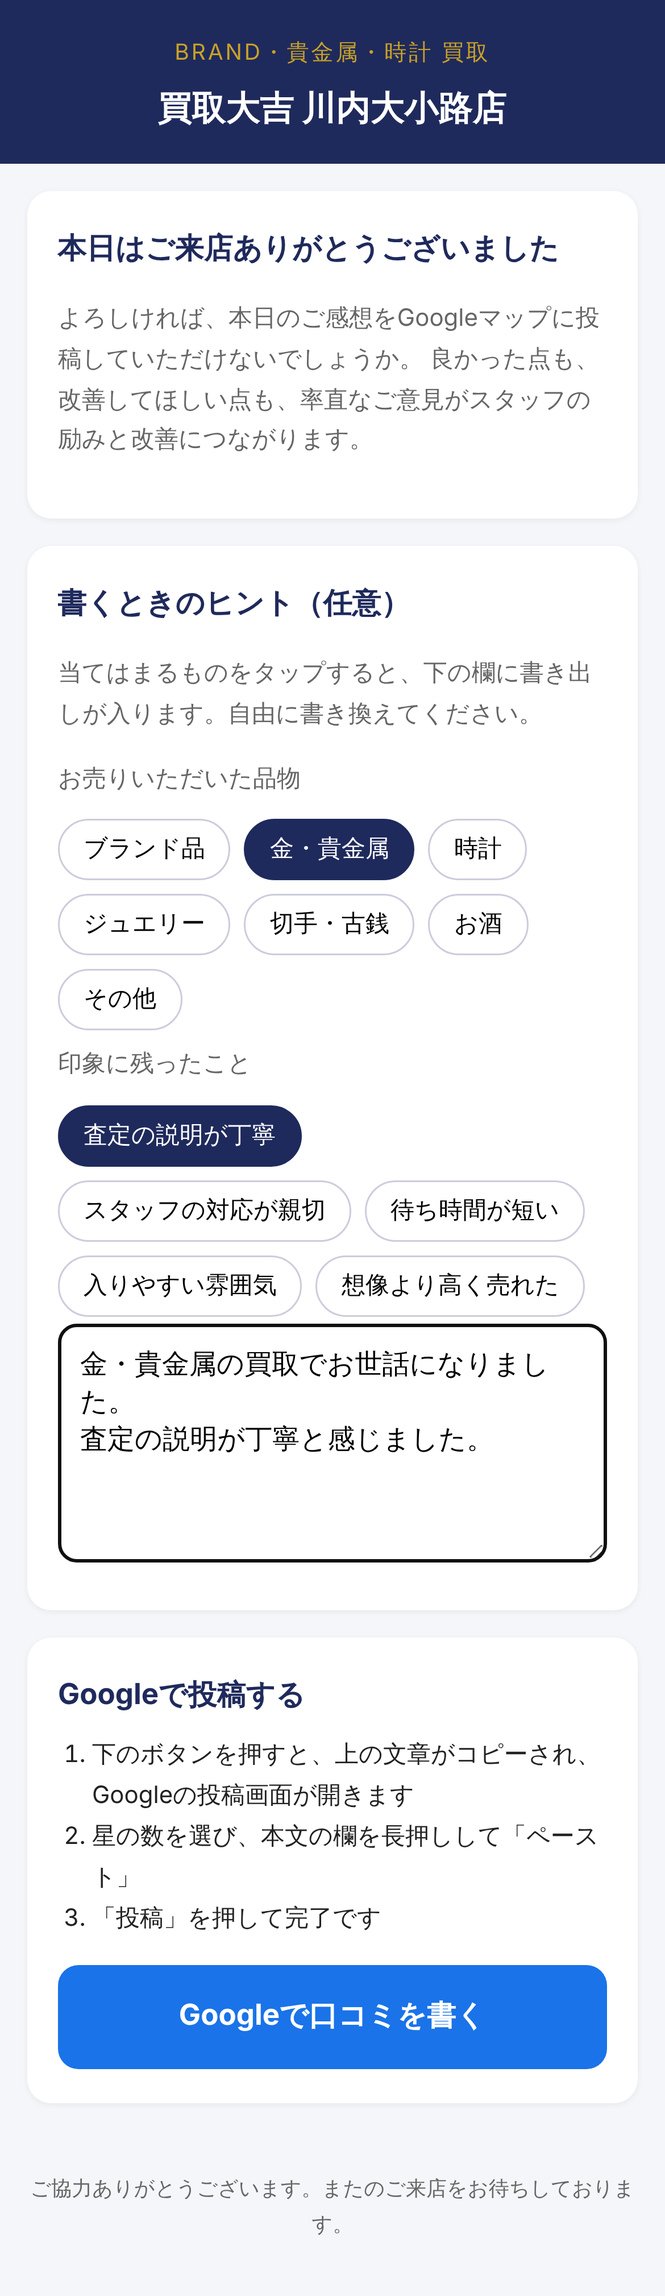
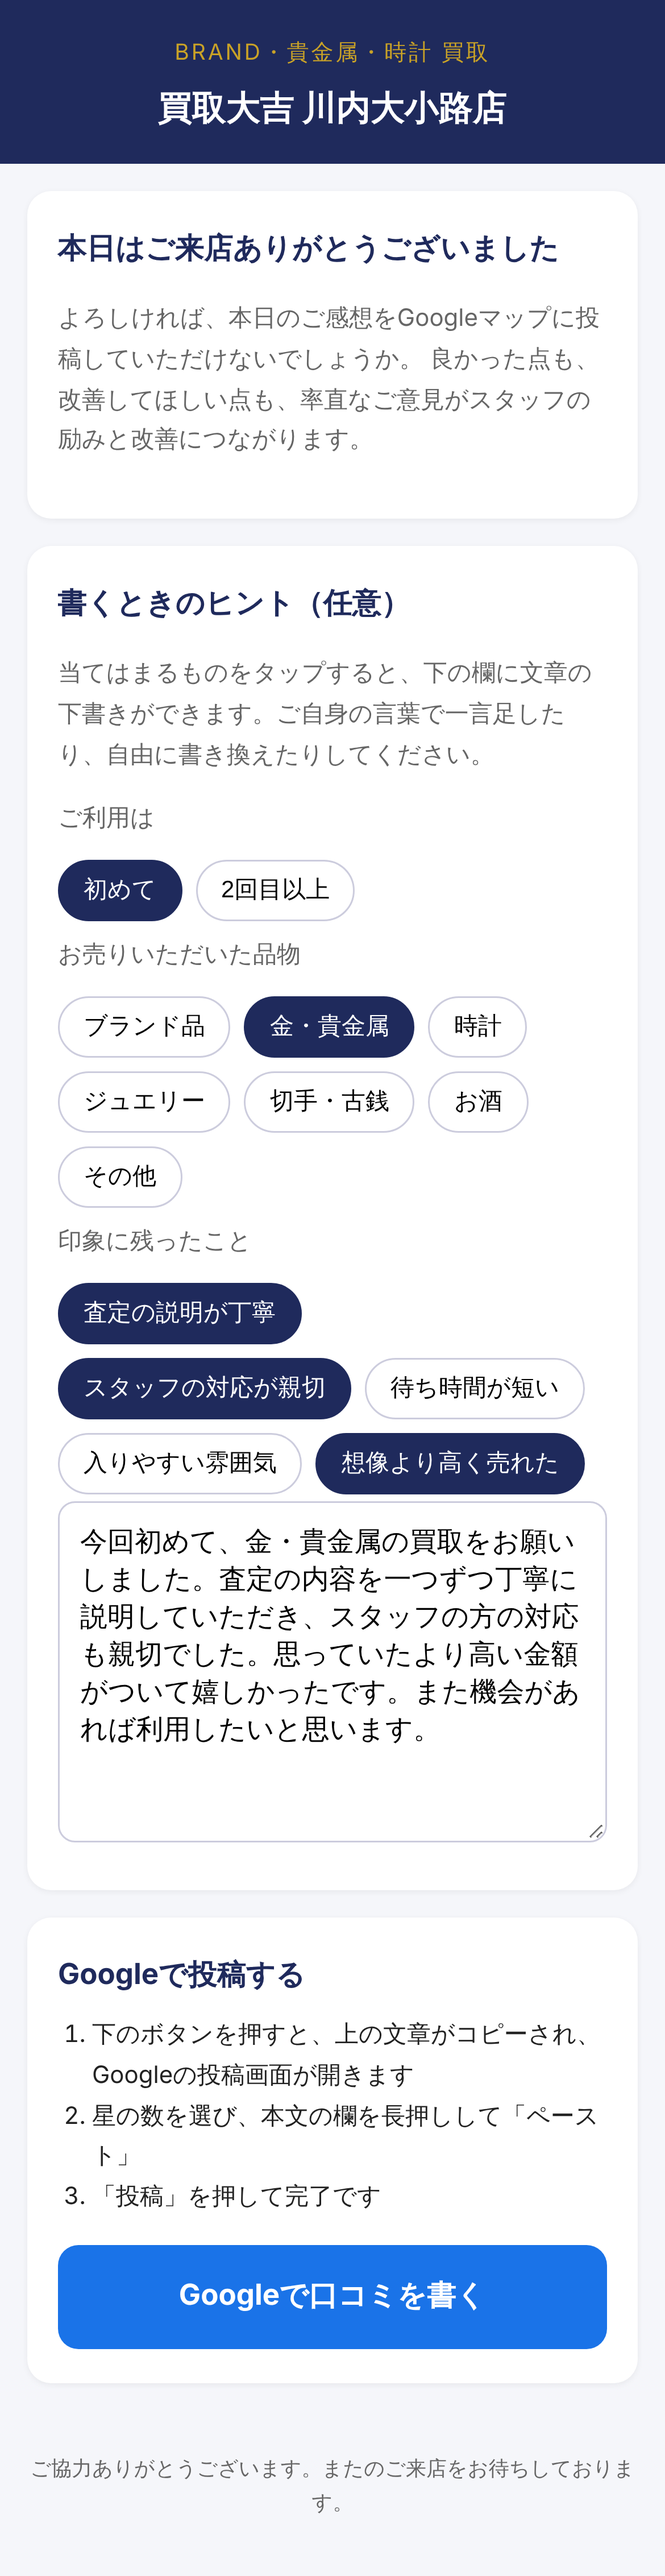
ヒントから自然な一続きの文章を組み立てるように変更
- 「ご利用は（初めて／2回目以上）」の選択肢を追加
- 選んだ内容を、箇条書きではなくつながった文章にする
- 言い回しをページを開くたびに変え、全員が同じ文章になるのを防ぐ
- お客様が手で直した文章は、確認なしに上書きしない

Claude-Session: https://claude.ai/code/session_019pqPey41PXqapbJbBahgUt

diff --git a/index.html b/index.html
@@ -40,7 +40,7 @@
   }
   .chip.on { background: var(--navy); color: #fff; border-color: var(--navy); }
   textarea {
-    width: 100%; min-height: 140px; font-size: 16px; padding: 12px;
+    width: 100%; min-height: 200px; font-size: 16px; padding: 12px;
     border: 1px solid #ccd; border-radius: 10px; resize: vertical;
     font-family: inherit;
   }
@@ -80,7 +80,10 @@
   <!-- ② 書くときのヒント（任意） -->
   <section class="card">
     <h2>書くときのヒント（任意）</h2>
-    <p class="muted">当てはまるものをタップすると、下の欄に書き出しが入ります。自由に書き換えてください。</p>
+    <p class="muted">当てはまるものをタップすると、下の欄に文章の下書きができます。ご自身の言葉で一言足したり、自由に書き換えたりしてください。</p>
+
+    <div class="muted" style="margin-top:8px">ご利用は</div>
+    <div class="chips" data-group="visit"></div>
 
     <div class="muted" style="margin-top:8px">お売りいただいた品物</div>
     <div class="chips" data-group="item"></div>
@@ -117,33 +120,104 @@ const CONFIG = {
   // Googleビジネスプロフィール管理画面の「口コミを依頼」で取得したURL
   // もしくは https://search.google.com/local/writereview?placeid=＜プレイスID＞
   reviewUrl: "https://g.page/r/CRv1XEL0wy6gEAE/review",
+  // ご利用回数（1つだけ選べる）
+  visits: ["初めて", "2回目以上"],
+  // 品物（複数選べる。「その他」は文章に品名を出さない）
   items:  ["ブランド品", "金・貴金属", "時計", "ジュエリー", "切手・古銭", "お酒", "その他"],
-  points: ["査定の説明が丁寧", "スタッフの対応が親切", "待ち時間が短い", "入りやすい雰囲気", "想像より高く売れた"],
+  // 印象に残ったこと：ボタンの文字 → 文の途中の形（mid）と、文末の形（end）
+  points: [
+    { label: "査定の説明が丁寧",   mid: "査定の内容を一つずつ丁寧に説明していただき", end: "査定の内容を一つずつ丁寧に説明していただけました" },
+    { label: "スタッフの対応が親切", mid: "スタッフの方の対応も親切で",               end: "スタッフの方の対応も親切でした" },
+    { label: "待ち時間が短い",     mid: "待ち時間も短く",                         end: "待ち時間も短くて助かりました" },
+    { label: "入りやすい雰囲気",   mid: "お店も入りやすい雰囲気で",                 end: "お店も入りやすい雰囲気でした" },
+    { label: "想像より高く売れた", mid: "思っていたより高い金額をつけていただき",     end: "思っていたより高い金額がついて嬉しかったです" },
+  ],
 };
+
+/* ---- 選んだ内容から、ひとつながりの文章を組み立てる ---- */
+// 言い回しは開くたびにランダムで1つ選ぶ（全員が同じ文章になるのを防ぐ）。
+// 1回開いている間は固定なので、ボタンを押すたびに文がガラッと変わることはない。
+const pick = arr => arr[Math.floor(Math.random() * arr.length)];
+const WORDING = {
+  firstWithItem:  pick(["今回初めて、{items}の買取をお願いしました。", "初めて利用し、{items}を買い取っていただきました。"]),
+  repeatWithItem: pick(["何度か利用していますが、今回は{items}の買取をお願いしました。", "今回も{items}を買い取っていただきました。"]),
+  itemOnly:       pick(["{items}の買取をお願いしました。", "{items}を買い取っていただきました。"]),
+  firstOnly:      pick(["今回初めて利用しました。", "初めて利用させていただきました。"]),
+  repeatOnly:     pick(["何度か利用させていただいています。", "いつも利用させていただいています。"]),
+  closing:        pick(["また機会があれば利用したいと思います。", "また何かあればお願いしたいです。", "安心して利用できるお店だと思います。"]),
+};
+
+// ["A","B","C"] → "A、BとC"
+function joinItems(list) {
+  if (list.length <= 1) return list.join("");
+  return list.slice(0, -1).join("、") + "と" + list[list.length - 1];
+}
+
+// 「〜で、〜でした。」のように2つずつ文をつなぐ（長すぎる1文にしない）
+function joinPoints(points) {
+  const sentences = [];
+  for (let i = 0; i < points.length; i += 2) {
+    const pair = points.slice(i, i + 2);
+    let s = pair.length === 2 ? `${pair[0].mid}、${pair[1].end}。` : `${pair[0].end}。`;
+    if (i === 0) s = s.replace(/^(スタッフの方の対応|待ち時間|お店)も/, "$1が"); // 文頭の「〜も」を「〜が」に
+    sentences.push(s);
+  }
+  return sentences.join("");
+}
+
+function buildText(sel) {
+  const items = sel.item.filter(x => x !== "その他");
+  const itemText = items.length ? joinItems(items) : (sel.item.length ? "手持ちの品" : "");
+  let opening = "";
+  if (itemText) {
+    const t = sel.visit === "初めて" ? WORDING.firstWithItem : sel.visit ? WORDING.repeatWithItem : WORDING.itemOnly;
+    opening = t.replace("{items}", itemText);
+  } else if (sel.visit) {
+    opening = sel.visit === "初めて" ? WORDING.firstOnly : WORDING.repeatOnly;
+  }
+  const points = CONFIG.points.filter(p => sel.point.includes(p.label));
+  const body = joinPoints(points);
+  const closing = points.length ? WORDING.closing : ""; // 良かった点を選んだ人だけ締めの一文
+  return opening + body + closing;
+}
 
 /* ---- ヒントのボタンを作る ---- */
 document.getElementById("storeName").textContent = CONFIG.storeName;
 const textarea = document.getElementById("review");
+const selected = { visit: "", item: [], point: [] };
+let lastGenerated = "";
 
-function makeChips(group, labels, toSentence) {
+function refresh() {
+  // お客様が自分で文章を直していたら、勝手に上書きしない
+  if (textarea.value !== lastGenerated && textarea.value.trim() !== "") {
+    if (!confirm("入力した文章を、選んだ内容で作り直しますか？\n（キャンセルすると今の文章を残します）")) return;
+  }
+  lastGenerated = buildText(selected);
+  textarea.value = lastGenerated;
+}
+
+function makeChips(group, labels, single) {
   const box = document.querySelector(`.chips[data-group="${group}"]`);
   labels.forEach(label => {
     const b = document.createElement("button");
     b.type = "button"; b.className = "chip"; b.textContent = label;
     b.onclick = () => {
-      b.classList.toggle("on");
-      if (b.classList.contains("on")) {
-        // 押したときは、文の書き出しを1行足すだけ（全文自動生成はしない）
-        const line = toSentence(label);
-        textarea.value = (textarea.value ? textarea.value + "\n" : "") + line;
+      if (single) {
+        selected[group] = selected[group] === label ? "" : label;
+        box.querySelectorAll(".chip").forEach(c => c.classList.toggle("on", c.textContent === selected[group]));
+      } else {
+        b.classList.toggle("on");
+        const list = selected[group];
+        b.classList.contains("on") ? list.push(label) : list.splice(list.indexOf(label), 1);
       }
-      textarea.focus();
+      refresh();
     };
     box.appendChild(b);
   });
 }
-makeChips("item",  CONFIG.items,  l => `${l}の買取でお世話になりました。`);
-makeChips("point", CONFIG.points, l => `${l}と感じました。`);
+makeChips("visit", CONFIG.visits, true);
+makeChips("item",  CONFIG.items);
+makeChips("point", CONFIG.points.map(p => p.label));
 
 /* ---- Googleへ ---- */
 const toast = document.getElementById("toast");
